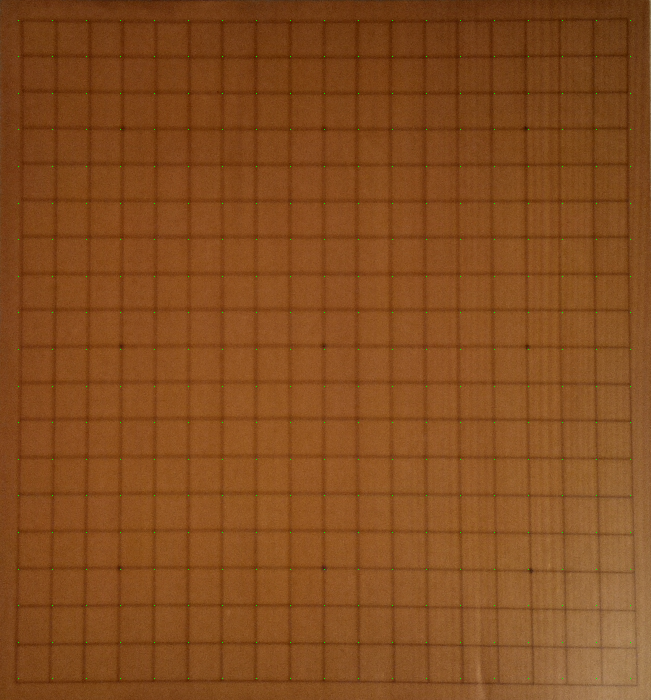
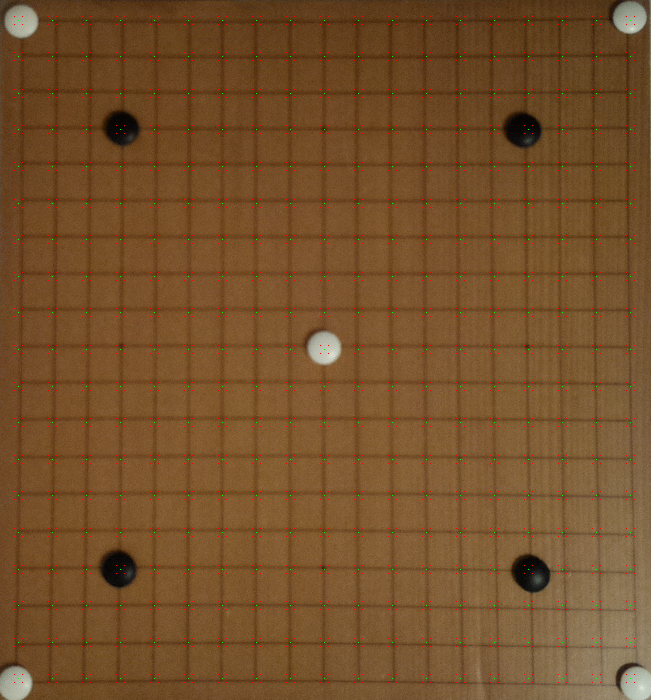
same old

diff --git a/Player.java b/Player.java
@@ -1,11 +1,14 @@
 import exceptions.FailedToRunRaspistillException;
 import java.io.IOException;
+import java.lang.Exception;
 import java.lang.InterruptedException;
 
 import java.awt.image.BufferedImage;
 import java.io.File;
 import javax.imageio.ImageIO;
 import java.awt.Color;
+import java.lang.Process;
+import java.lang.Runtime;
 
 public class Player {
 
@@ -39,17 +42,38 @@ public class Player {
     catch(IOException | InterruptedException e) {
       e.printStackTrace();
     }
+
     image = image.getSubimage(558, 333, 651, 700);
     drawGridOnImage();
     writeImageFile();
 
+    speak("Ok. Let's play");
+
     System.out.println("Grejer");
+  }
+
+
+  public static void speak(String whatToSay) {
+    try {
+      String[] args = {"flite", "-voice", "slt", "-t", "\"" + whatToSay + "\""};
+      Process p = Runtime.getRuntime().exec(args);
+      p.waitFor();
+      p.destroy();
+    }
+    catch(Exception e) {
+      e.printStackTrace();
+      System.out.println("Failed to play sound");
+    }
   }
 
   public static void drawGridOnImage() {
     for(float y = 20; y < 690; y += 36.6) {
       for(int x = 18; x < 640; x += 34 ) {
         image.setRGB(x, (int)y, Color.green.getRGB());
+        image.setRGB(x - 4, (int)y - 4, Color.red.getRGB());
+        image.setRGB(x + 4, (int)y - 4, Color.red.getRGB());
+        image.setRGB(x - 4, (int)y + 4, Color.red.getRGB());
+        image.setRGB(x + 4, (int)y + 4, Color.red.getRGB());
       }
     }
   }
